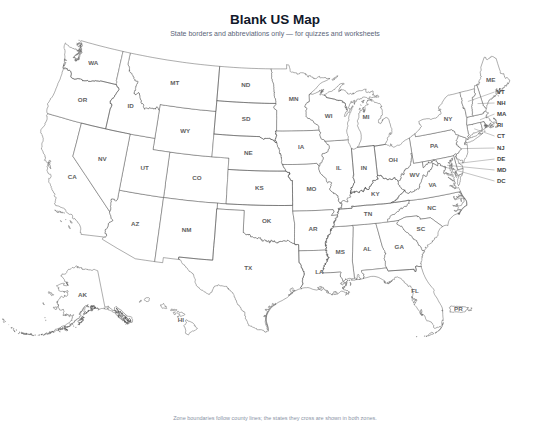
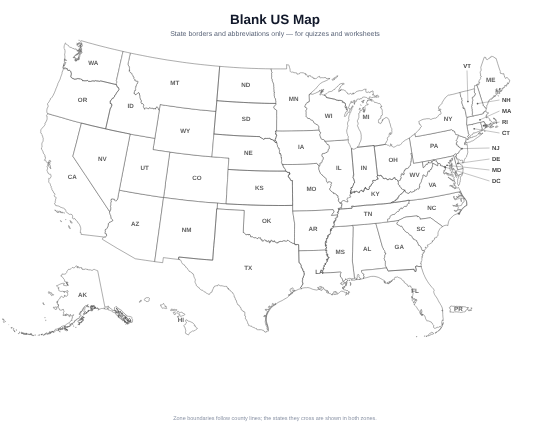
Move the crowded northeast labels beside the map, on dotted leaders
The nine northeastern states and Puerto Rico ran out to a single column
at the far right of the canvas. That needed long lines, and it pushed the
map itself into a corner of its frame to leave room for them.

They are now placed per state, close to the coastline each belongs to,
and split into the two clusters the geography already suggests: New
England above, the mid-Atlantic below. Vermont is the one with clear air
directly over it, so its label sits there and drops a line straight down,
the way a printed atlas handles it.

Each line now ends in a dot on the state it names. Without one the line
just points into a patch of colour, which settles nothing when the
neighbours are this small -- it is the detail that makes the difference
between a label that gestures at a region and one that identifies a
state.

Shorter leaders need less margin, so the gutter drops from 165 to 110 and
the map gets that width back: on the same container it renders about 5%
larger.

Label colours are untouched, as asked. They stay bound to --ink, so they
are near-white on the dark canvas and near-black on the light one, rather
than the fixed dark text of the reference, which would vanish in dark
mode. Both naming modes keep their own sizes and the existing
Name/Abbr/Blank toggle still drives them.

The printables take the same layout. They share this projection, so the
coordinates port across unchanged, and leaving them on the old column
[…]

diff --git a/src/components/map/UsMap.tsx b/src/components/map/UsMap.tsx
@@ -12,16 +12,46 @@ const zoneTips: Record<string, ZoneTip> = Object.fromEntries(
   Object.entries(allUsZones).map(([k, z]) => [k, { short: z.short, zone: z.zone, color: zoneColor(k) }]),
 );
 
-// The northeast is far too crowded for centroid labels, so these nine run out
-// to a column on the right on a leader line — same treatment as the printables.
-const LEADER: Record<string, number> = {
-  VT: 96, NH: 118, MA: 140, RI: 162, CT: 184, NJ: 208, DE: 230, MD: 252, DC: 274,
+// The northeast is far too crowded for centroid labels, so these states are set
+// beside the map and tied back to it with a leader line ending in a dot.
+//
+// They are placed per state rather than in one aligned column: kept close to
+// the coastline they belong to, and split into the two clusters the geography
+// already suggests — New England above, the mid-Atlantic below. A single column
+// far to the right needs much longer lines, which cross each other and push the
+// map itself into a corner of the frame.
+interface Leader {
+  x: number;
+  y: number;
+  /** 'middle' for a label set above its state, 'start' for one set beside it. */
+  anchor: 'start' | 'middle';
+}
+
+const LEADER: Record<string, Leader> = {
+  // Vermont is the one with clear air directly above it, so it goes there and
+  // drops a line straight down, as on a printed atlas.
+  VT: { x: 884, y: 44, anchor: 'middle' },
+  NH: { x: 954, y: 112, anchor: 'start' },
+  MA: { x: 954, y: 134, anchor: 'start' },
+  RI: { x: 954, y: 156, anchor: 'start' },
+  CT: { x: 954, y: 178, anchor: 'start' },
+  NJ: { x: 934, y: 208, anchor: 'start' },
+  DE: { x: 934, y: 230, anchor: 'start' },
+  MD: { x: 934, y: 252, anchor: 'start' },
+  DC: { x: 934, y: 274, anchor: 'start' },
   // Puerto Rico sits low and to the right, as its own inset.
-  PR: 527,
+  PR: { x: 905, y: 530, anchor: 'start' },
 };
-const LEADER_X = 990;
-/** Extra canvas to the right of the map for the leader-label column. */
-const GUTTER = 165;
+
+/** Where a leader line stops so it reaches its label without touching it. */
+function leaderEnd(l: Leader) {
+  return l.anchor === 'middle'
+    ? { x: l.x, y: l.y + 5 }
+    : { x: l.x - 5, y: l.y - 4 };
+}
+
+/** Extra canvas to the right of the map for the leader labels. */
+const GUTTER = 110;
 
 /**
  * US time zone map, Albers USA projection with Alaska and Hawaii as insets.
@@ -126,8 +156,8 @@ export function UsMap({
         <g className="pointer-events-none" data-labels="abbr" fill="rgb(var(--ink))">
           {usShapes.map((s) => {
             if (s.cx === undefined || !s.usps) return null;
-            const ly = LEADER[s.usps];
-            return ly === undefined ? (
+            const l = LEADER[s.usps];
+            return l === undefined ? (
               <text
                 key={`a-${s.fips}`}
                 x={s.cx}
@@ -140,7 +170,7 @@ export function UsMap({
                 {s.usps}
               </text>
             ) : (
-              <text key={`al-${s.fips}`} x={LEADER_X} y={ly} fontSize="12" fontWeight="700" textAnchor="start">
+              <text key={`al-${s.fips}`} x={l.x} y={l.y} fontSize="12" fontWeight="700" textAnchor={l.anchor}>
                 {s.usps}
               </text>
             );
@@ -155,8 +185,8 @@ export function UsMap({
         >
           {usShapes.map((s) => {
             if (s.cx === undefined || !s.usps) return null;
-            const ly = LEADER[s.usps];
-            return ly === undefined ? (
+            const l = LEADER[s.usps];
+            return l === undefined ? (
               <text
                 key={`n-${s.fips}`}
                 x={s.cx}
@@ -169,28 +199,38 @@ export function UsMap({
                 {s.name}
               </text>
             ) : (
-              <text key={`nl-${s.fips}`} x={LEADER_X} y={ly} fontSize="10.5" fontWeight="700" textAnchor="start">
+              <text key={`nl-${s.fips}`} x={l.x} y={l.y} fontSize="10.5" fontWeight="700" textAnchor={l.anchor}>
                 {s.name}
               </text>
             );
           })}
         </g>
 
-        {/* The leader lines are shared by both naming modes. */}
+        {/* Leader lines, shared by both naming modes. Each ends in a dot on the
+            state it names: without it the line just points into a patch of
+            colour and leaves which state ambiguous among neighbours this
+            small. */}
         <g className="pointer-events-none" data-labels="leaderlines">
-          {usShapes.map((s) =>
-            s.cx !== undefined && s.usps && LEADER[s.usps] !== undefined ? (
-              <line
-                key={`ll-${s.fips}`}
-                x1={s.cx}
-                y1={s.cy}
-                x2={LEADER_X - 6}
-                y2={LEADER[s.usps] - 4}
-                stroke="rgb(var(--muted))"
-                strokeWidth="0.8"
-              />
-            ) : null,
-          )}
+          {usShapes.map((s) => {
+            if (s.cx === undefined || !s.usps) return null;
+            const l = LEADER[s.usps];
+            if (l === undefined) return null;
+            const end = leaderEnd(l);
+            return (
+              <g key={`ll-${s.fips}`}>
+                <line
+                  x1={s.cx}
+                  y1={s.cy}
+                  x2={end.x}
+                  y2={end.y}
+                  stroke="rgb(var(--ink))"
+                  strokeWidth="0.7"
+                  opacity="0.55"
+                />
+                <circle cx={s.cx} cy={s.cy} r="1.7" fill="rgb(var(--ink))" opacity="0.75" />
+              </g>
+            );
+          })}
         </g>
       </svg>
     </UsMapLayer>
